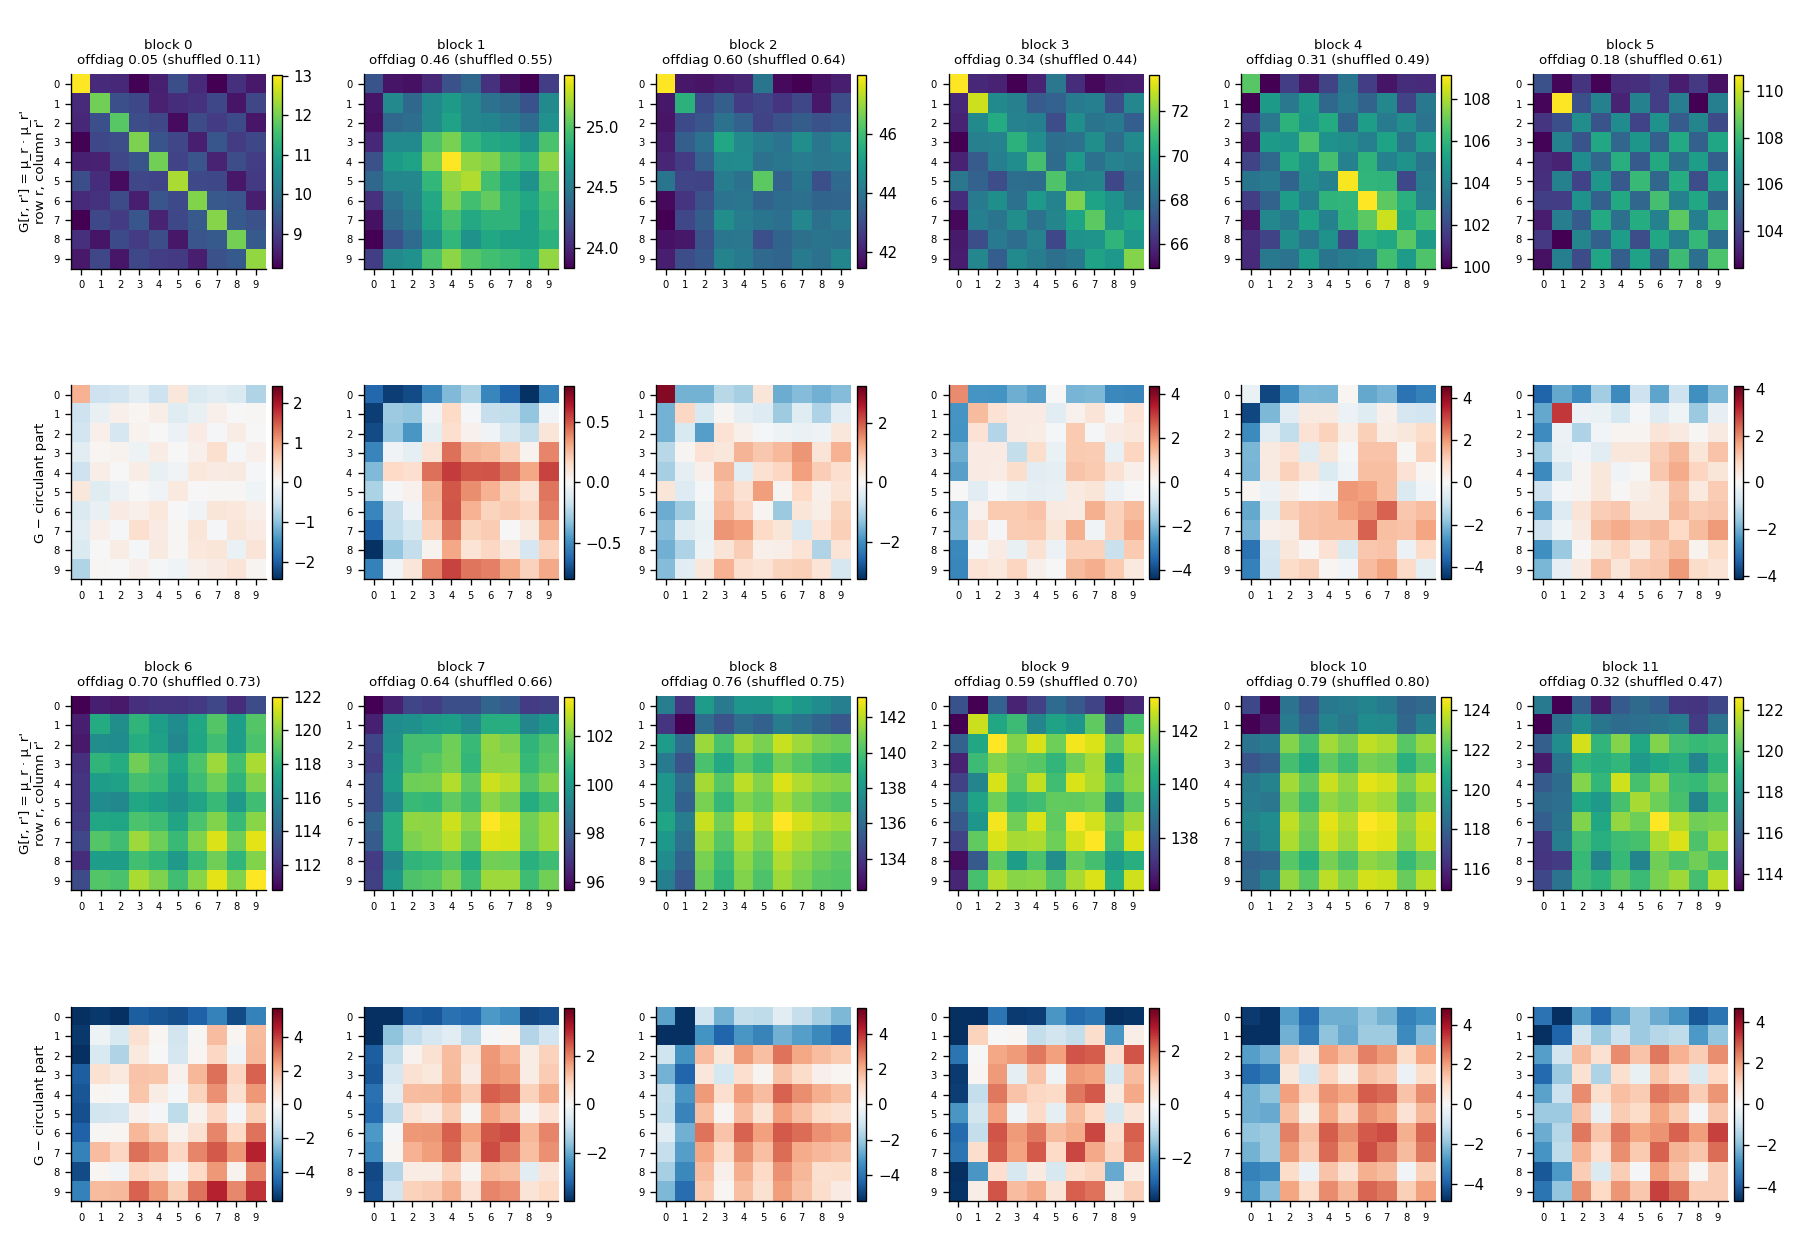
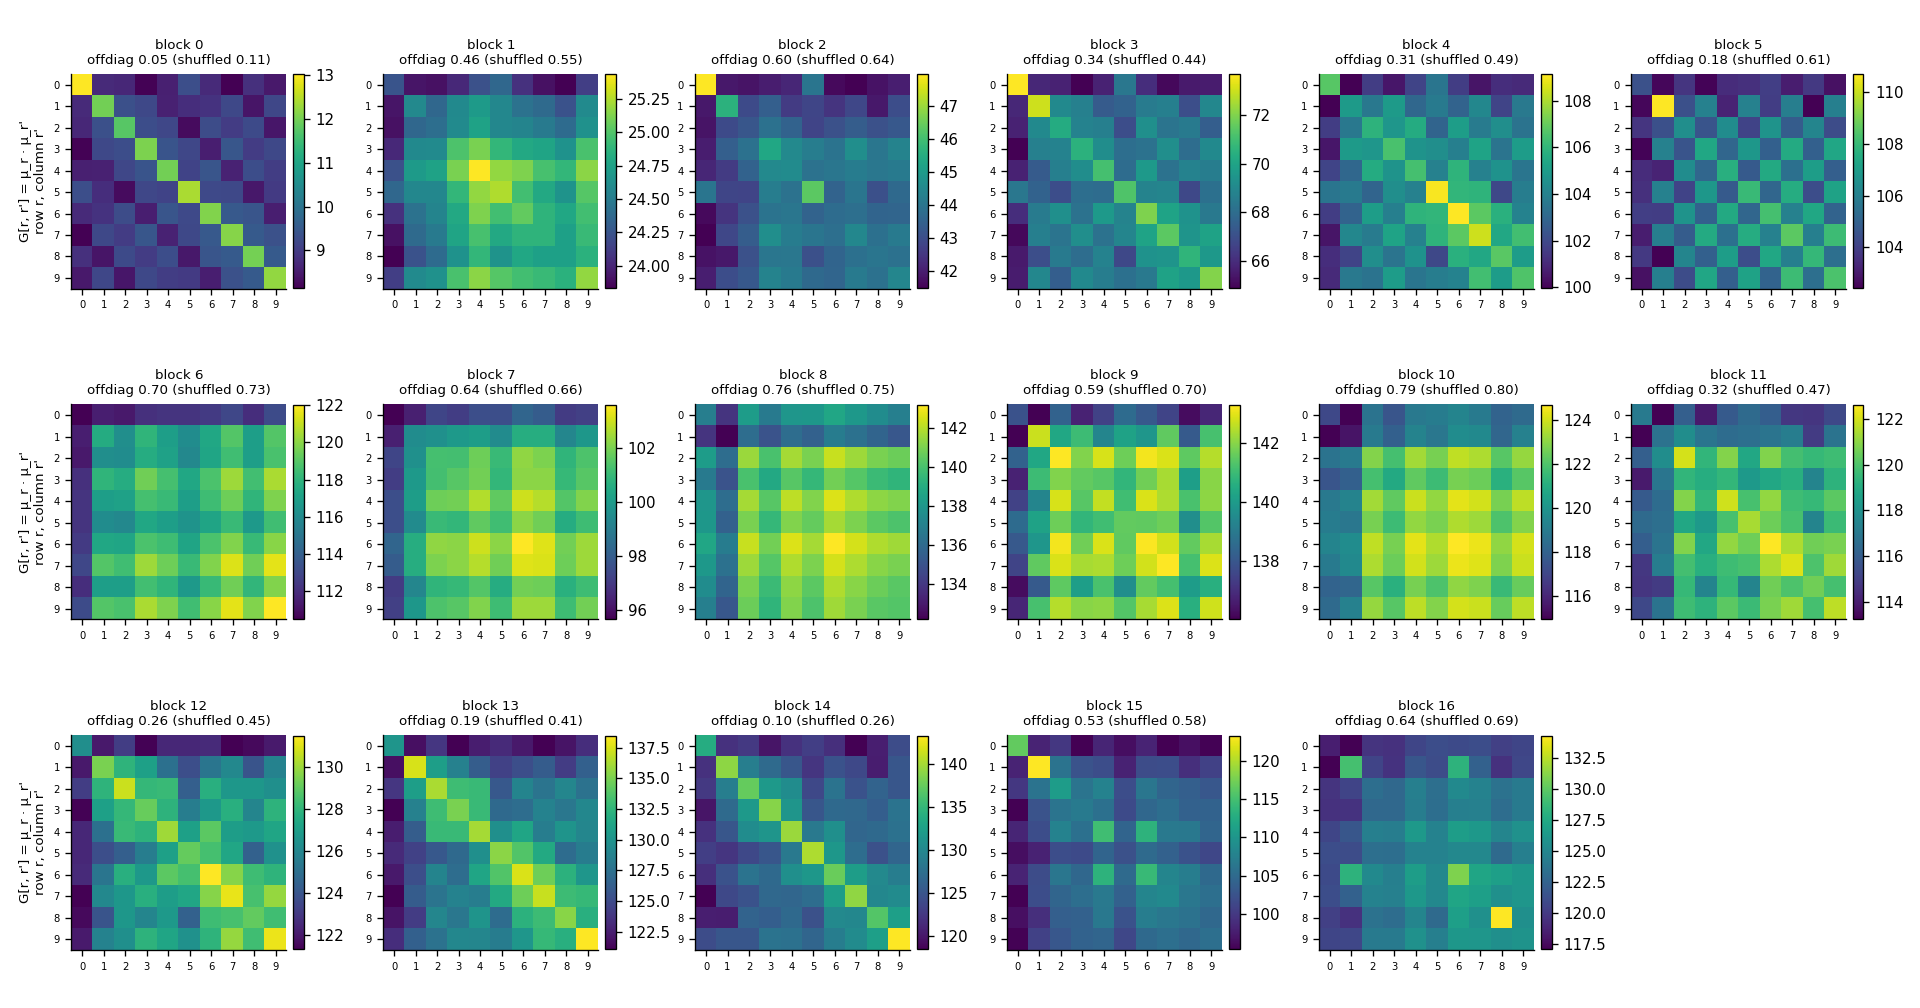
repr_repo: Gram matrices of the a mod 10 residue means for blocks 0-16

diff --git a/notes/reader_writer/repr_repo/plot_gram.py b/notes/reader_writer/repr_repo/plot_gram.py
@@ -1,12 +1,11 @@
-"""Gram matrices G[r, r'] = mu_r . mu_r' of the ten residue means of the a mod 10 representations, blocks 0..11.
+"""Gram matrices G[r, r'] = mu_r . mu_r' of the ten residue means of a mod 10, blocks 0..16, position 1.
 
 mu_r in R^4096 is the mean, over the 40 operands a in 1..400 with a mod 10 = r, of the block's MLP input at
-position 1 projected onto the span of the kept readers' read vectors (x_V, as in seed_blocks_mod10.py; for
-blocks 1..11 it is the stored `mu` of L<b>.p1.a_mod_10.means). Nothing is centred: G includes the direction all
-ten means share. G is circulant when G[r, r'] depends only on the lag (r' - r) mod 10.
-Rows 1 and 3: G (each panel its own colour range), blocks 0..5 and 6..11. Rows 2 and 4: G minus its circulant part C[r, r'] = mean of G over the
-cyclic diagonal of lag (r' - r) mod 10, on a symmetric range of half the panel above's range. Titles: offdiag = share of |F G F^H|^2 off
-the diagonal within frequencies 1..5 (0 for circulant), and the median over 200 random relabellings.
+position 1 projected onto the span of the block's kept readers' read vectors (x_V, as in seed_blocks_mod10.py,
+whose stored `mu` it reproduces for blocks 1..11). Nothing is centred: G includes the direction all ten means
+share. G is circulant when G[r, r'] depends only on the lag (r' - r) mod 10. Each panel has its own colour range.
+Titles: offdiag = share of |F G F^H|^2 off the diagonal within frequencies 1..5 (0 for circulant), and its median
+over 200 random relabellings of the residues (seed_blocks_mod10.circulant).
 
     python plot_gram.py --out <png>
 """
@@ -22,16 +21,18 @@ matplotlib.use("Agg")
 import matplotlib.pyplot as plt
 import numpy as np
 from repo import ROOT
+from seed_blocks_mod10 import circulant
 
 sys.path.insert(0, str(Path(__file__).resolve().parent.parent / "readers"))
 from mod10_L0 import RUN, A, N  # noqa: E402
 
 SRC = RUN / "analysis/reader_writer/variance/alive_only"
+BLOCKS = range(17)
 
 
-def block0_mu() -> np.ndarray:
-    z = np.load(SRC / "L0" / "comps.npz")
-    rds = [r for r in json.loads((ROOT / "readers.json").read_text())["readers"] if r["block"] == 0]
+def block_mu(b: int, readers: list[dict]) -> np.ndarray:
+    z = np.load(SRC / f"L{b}" / "comps.npz")
+    rds = [r for r in readers if r["block"] == b]
     col = {(str(k), int(i)): j for j, (k, i) in enumerate(zip(z["kind"], z["index"], strict=True))}
     cols = np.asarray([col[(r["kind"], r["component"])] for r in rds])
     V = np.concatenate(
@@ -42,57 +43,43 @@ def block0_mu() -> np.ndarray:
         1,
     ).astype(np.float64)
     T = np.asarray(
-        np.load(SRC / "L0" / "inner.npy", mmap_mode="r")[(A - 1) * N, 0, :][:, cols], np.float64
+        np.load(SRC / f"L{b}" / "inner.npy", mmap_mode="r")[(A - 1) * N, 0, :][:, cols], np.float64
     )
     xv = (V @ np.linalg.pinv(V.T @ V) @ T.T).T
     return np.stack([xv[r == A % 10].mean(0) for r in range(10)])
-
-
-def circulant_part(G: np.ndarray) -> np.ndarray:
-    lag = (np.arange(10)[None] - np.arange(10)[:, None]) % 10
-    c = np.array([G[lag == k].mean() for k in range(10)])
-    return c[lag]
 
 
 def main() -> None:
     ap = argparse.ArgumentParser(description=__doc__)
     ap.add_argument("--out", type=Path, required=True)
     args = ap.parse_args()
+    readers = json.loads((ROOT / "readers.json").read_text())["readers"]
     reps = {
         r["id"]: r
         for r in json.loads((ROOT / "representations.json").read_text())["representations"]
     }
-    fig, grid = plt.subplots(4, 6, figsize=(15, 10.5))
-    for b in range(12):
-        if b == 0:
-            mu = block0_mu()
-            from seed_blocks_mod10 import circulant
-
-            circ = circulant(mu)
-        else:
-            rep = reps[f"L{b}.p1.a_mod_10.means"]
-            mu = np.load(ROOT / rep["vectors"])["mu"]
-            circ = rep["details"]["circulant"]
+    fig, grid = plt.subplots(3, 6, figsize=(16, 8.4))
+    for b in BLOCKS:
+        mu = block_mu(b, readers)
+        rid = f"L{b}.p1.a_mod_10.means"
+        if rid in reps:
+            stored = np.load(ROOT / reps[rid]["vectors"])["mu"]
+            assert np.abs(stored - mu).max() <= 1e-6 * np.abs(stored).max(), b
+        circ = circulant(mu)
         G = mu @ mu.T
-        top, bot = grid[2 * (b // 6), b % 6], grid[2 * (b // 6) + 1, b % 6]
-        lo, hi = G.min(), G.max()
-        im = top.imshow(G, cmap="viridis", vmin=lo, vmax=hi)
-        fig.colorbar(im, ax=top, fraction=0.046, pad=0.03)
-        top.set_title(
+        ax = grid[b // 6, b % 6]
+        im = ax.imshow(G, cmap="viridis", vmin=G.min(), vmax=G.max())
+        fig.colorbar(im, ax=ax, fraction=0.046, pad=0.03)
+        ax.set_title(
             f"block {b}\noffdiag {circ['offdiag_share_k1to5']:.2f} (shuffled {circ['shuffled_median']:.2f})",
             fontsize=8,
         )
-        R = G - circulant_part(G)
-        m = (hi - lo) / 2
-        im = bot.imshow(R, cmap="RdBu_r", vmin=-m, vmax=m)
-        fig.colorbar(im, ax=bot, fraction=0.046, pad=0.03)
-        for ax in (top, bot):
-            ax.set_xticks(range(10))
-            ax.set_yticks(range(10))
-            ax.tick_params(labelsize=6)
-    for i in (0, 2):
+        ax.set_xticks(range(10))
+        ax.set_yticks(range(10))
+        ax.tick_params(labelsize=6)
+    grid[-1, -1].axis("off")
+    for i in range(3):
         grid[i, 0].set_ylabel("G[r, r'] = μ_r · μ_r'\nrow r, column r'", fontsize=8)
-        grid[i + 1, 0].set_ylabel("G − circulant part", fontsize=8)
     fig.tight_layout()
     fig.savefig(args.out, dpi=120)
 
